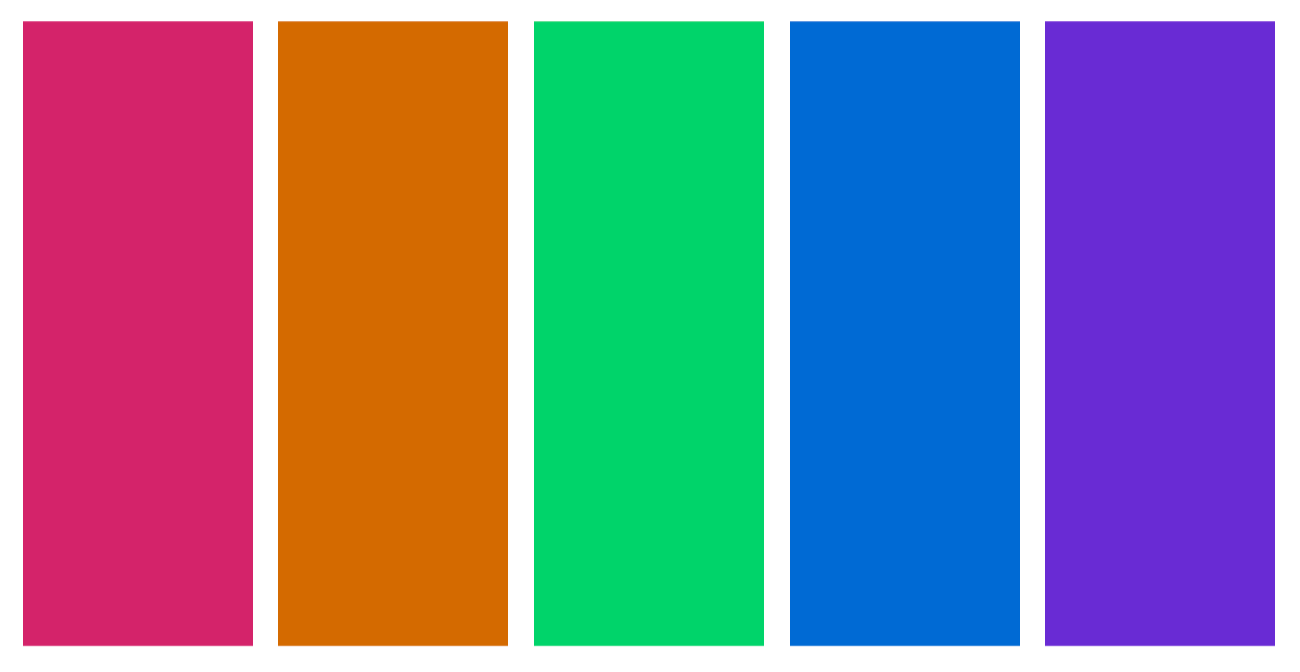
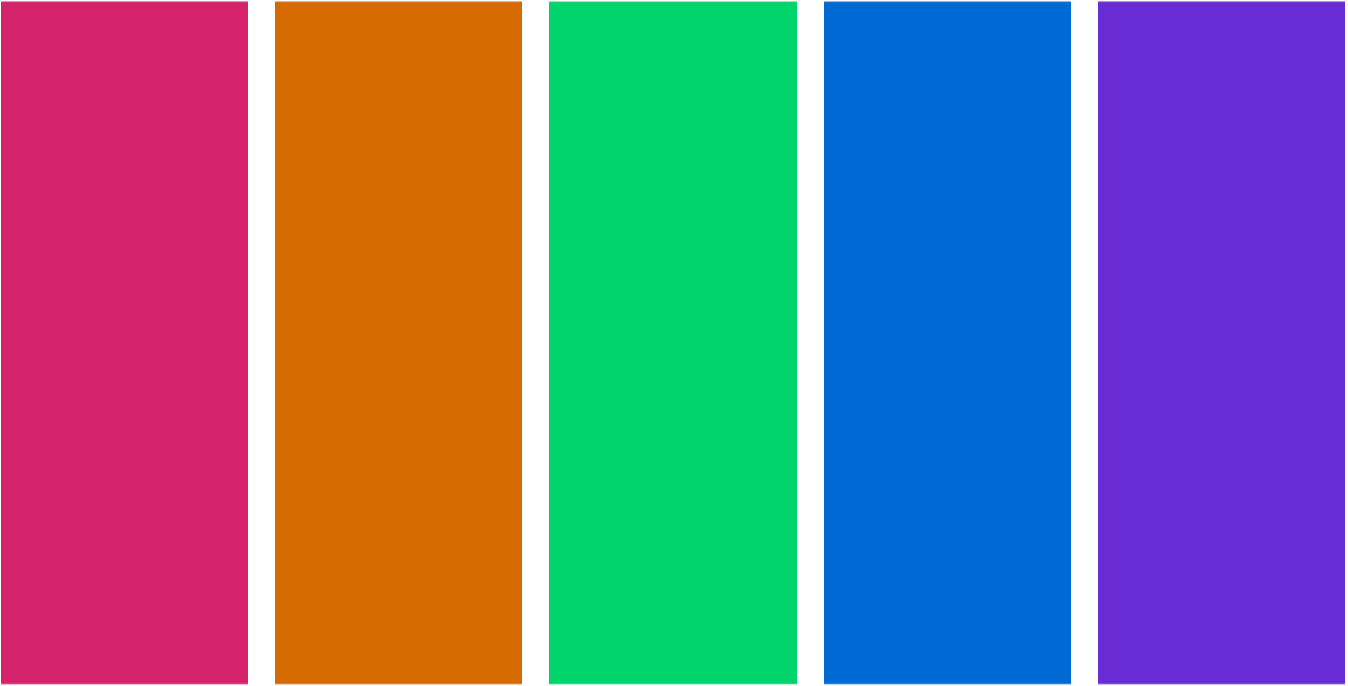
finish accessibility section

Changed region(s): [[0.0, 0.0, 1.0, 1.0]]

diff --git a/_posts/2021-05-15-custom-syntax-highlighting-for-distill/custom-syntax-highlighting-for-distill.html b/_posts/2021-05-15-custom-syntax-highlighting-for-distill/custom-syntax-highlighting-for-distill.html
@@ -124,7 +124,7 @@ code span.wa { color: #5e5e5e; font-style: italic; } /* Warning */
   <!--/radix_placeholder_rmarkdown_metadata-->
   
   <script type="text/json" id="radix-resource-manifest">
-  {"type":"character","attributes":{},"value":["colour-harmonies.jpg","colour-palettes-d4006a.png","contrast-check.png","custom-syntax-highlighting-for-distill_files/anchor-4.2.2/anchor.min.js","custom-syntax-highlighting-for-distill_files/bowser-1.9.3/bowser.min.js","custom-syntax-highlighting-for-distill_files/distill-2.2.21/template.v2.js","custom-syntax-highlighting-for-distill_files/figure-html5/colour-theory-palette-1.png","custom-syntax-highlighting-for-distill_files/figure-html5/unnamed-chunk-10-1.png","custom-syntax-highlighting-for-distill_files/figure-html5/unnamed-chunk-11-1.png","custom-syntax-highlighting-for-distill_files/figure-html5/unnamed-chunk-2-1.png","custom-syntax-highlighting-for-distill_files/figure-html5/unnamed-chunk-3-1.png","custom-syntax-highlighting-for-distill_files/figure-html5/unnamed-chunk-4-1.png","custom-syntax-highlighting-for-distill_files/figure-html5/unnamed-chunk-5-1.png","custom-syntax-highlighting-for-distill_files/figure-html5/unnamed-chunk-5-2.png","custom-syntax-highlighting-for-distill_files/figure-html5/unnamed-chunk-6-1.png","custom-syntax-highlighting-for-distill_files/figure-html5/unnamed-chunk-7-1.png","custom-syntax-highlighting-for-distill_files/figure-html5/unnamed-chunk-8-1.png","custom-syntax-highlighting-for-distill_files/figure-html5/unnamed-chunk-9-1.png","custom-syntax-highlighting-for-distill_files/header-attrs-2.8/header-attrs.js","custom-syntax-highlighting-for-distill_files/jquery-1.11.3/jquery.min.js","custom-syntax-highlighting-for-distill_files/popper-2.6.0/popper.min.js","custom-syntax-highlighting-for-distill_files/tippy-6.2.7/tippy-bundle.umd.min.js","custom-syntax-highlighting-for-distill_files/tippy-6.2.7/tippy-light-border.css","custom-syntax-highlighting-for-distill_files/tippy-6.2.7/tippy.css","custom-syntax-highlighting-for-distill_files/tippy-6.2.7/tippy.umd.min.js","custom-syntax-highlighting-for-distill_files/webcomponents-2.0.0/webcomponents.js","first-colour-swatch.png","hsl-colour-wheel-d4006a-annotated.png","hsl-colour-wheel-d4006a.png","hsl-hsb-sliders.png"]}
+  {"type":"character","attributes":{},"value":["colour-harmonies.jpg","colour-palettes-d4006a.png","contrast-check.png","custom-syntax-highlighting-for-distill_files/anchor-4.2.2/anchor.min.js","custom-syntax-highlighting-for-distill_files/bowser-1.9.3/bowser.min.js","custom-syntax-highlighting-for-distill_files/distill-2.2.21/template.v2.js","custom-syntax-highlighting-for-distill_files/figure-html5/colour-theory-palette-1.png","custom-syntax-highlighting-for-distill_files/figure-html5/unnamed-chunk-10-1.png","custom-syntax-highlighting-for-distill_files/figure-html5/unnamed-chunk-11-1.png","custom-syntax-highlighting-for-distill_files/figure-html5/unnamed-chunk-2-1.png","custom-syntax-highlighting-for-distill_files/figure-html5/unnamed-chunk-3-1.png","custom-syntax-highlighting-for-distill_files/figure-html5/unnamed-chunk-4-1.png","custom-syntax-highlighting-for-distill_files/figure-html5/unnamed-chunk-5-1.png","custom-syntax-highlighting-for-distill_files/figure-html5/unnamed-chunk-5-2.png","custom-syntax-highlighting-for-distill_files/figure-html5/unnamed-chunk-6-1.png","custom-syntax-highlighting-for-distill_files/figure-html5/unnamed-chunk-7-1.png","custom-syntax-highlighting-for-distill_files/figure-html5/unnamed-chunk-8-1.png","custom-syntax-highlighting-for-distill_files/figure-html5/unnamed-chunk-9-1.png","custom-syntax-highlighting-for-distill_files/header-attrs-2.8/header-attrs.js","custom-syntax-highlighting-for-distill_files/jquery-1.11.3/jquery.min.js","custom-syntax-highlighting-for-distill_files/popper-2.6.0/popper.min.js","custom-syntax-highlighting-for-distill_files/tippy-6.2.7/tippy-bundle.umd.min.js","custom-syntax-highlighting-for-distill_files/tippy-6.2.7/tippy-light-border.css","custom-syntax-highlighting-for-distill_files/tippy-6.2.7/tippy.css","custom-syntax-highlighting-for-distill_files/tippy-6.2.7/tippy.umd.min.js","custom-syntax-highlighting-for-distill_files/webcomponents-2.0.0/webcomponents.js","ek-syntax-highlighting-palette.png","first-colour-swatch.png","hsl-colour-wheel-d4006a-annotated.png","hsl-colour-wheel-d4006a.png","hsl-hsb-sliders.png","second-colour-swatch.png","third-colour-swatch.png"]}
   </script>
   <!--radix_placeholder_navigation_in_header-->
   <!--/radix_placeholder_navigation_in_header-->
@@ -1646,7 +1646,7 @@ Figure 2: Harmonious colour combinations. Figure from <a href="https://www.widew
 </div>
 </div>
 <p>Another aspect of colour theory relates to colour spaces, and different ways that colours can be defined. The best known, at least in the context of designing for the web, is RGB (<strong>R</strong>eg <strong>G</strong>reen <strong>B</strong>lue), which defines a colour by how much of each of those three primary colours it contains, in a range of 0-255. It is the hexidecimal representations of these three numbers that combine to make up the hex code for a colour.</p>
-<p>More intuitive, however, for adjusting colours, is defining them by SB (<strong>H</strong>ue, <strong>S</strong>aturation, <strong>B</strong>rightness), also known as HSV (<strong>H</strong>ue, <strong>S</strong>aturation, <strong>V</strong>alue). Similar to HSB is HSL (<strong>H</strong>ue, <strong>S</strong>aturation, <strong>L</strong>ightness/<strong>L</strong>uminance/<strong>L</strong>uminosity).</p>
+<p>More intuitive, however, for adjusting colours, is defining them by SB (<strong>H</strong>ue, <strong>S</strong>aturation, <strong>B</strong>rightness), also known as HSV (<strong>H</strong>ue, <strong>S</strong>aturation, <strong>V</strong>alue). Similar to HSB is HSL (<strong>H</strong>ue, <strong>S</strong>aturation, <strong>L</strong>ightness).</p>
 <p>In HSB, the hue represents the colour type and is a number measured between 0 and 360°; it’s where you are on the colour wheel, ignoring how bright or intense the colour is. Saturation describes the intensity or richness of the hue, measured between 0 and 100%. 100% is the richest version of the colour and 0% is a shade of grey. Brightness measures, you guessed it, the brightness of the colour. Again, it ranges from 0 to 100%, with 0% being black and 100% being a very bright colour (here, black is not the opposite of white). Here’s a <a href="https://learnui.design/blog/the-hsb-color-system-practicioners-primer.html">excellent article on the HSB system</a>, which also explains how it differs from HSL. And since a picture here is worth very many words, see Figure <a href="#fig:hsl-hsb-sliders">3</a> for HSL and HSB sliders for my pink.</p>
 <div class="layout-chunk" data-layout="l-body">
 <div class="figure"><span id="fig:hsl-hsb-sliders"></span>
@@ -1661,26 +1661,58 @@ Figure 3: HSL and HSB sliders for the pink used throughout this site. Image is a
 <p>It’s great to play around with an HSL or HSB colour wheel to get a sense of how harmonious colour schemes are built, and how the colours in them relate to each other on the wheel. I really like the <a href="https://www.canva.com/colors/color-wheel/">canva colour wheel</a>. It’s pretty simple, with only a few schemes, but it’s nicely designed and easy to use, and the page explains the basics of colour theory too. I like how you can pull the dots around the wheel and see how the colours relate, and if you click on a colour in the palette, there are HSL sliders too. Plus, as you move colours around, the background of the page changes colour, which is a nice touch!</p>
 <p>The problem with all the colour schemes defined in Figure <a href="#fig:colour-harmonies">2</a> is that they use a maximum of four colours, and we need five. But not to worry! We know from colour theory that we can find 12 colours in harmony by taking evenly spaced colours around the HSL or HSB wheel, i.e. colours whose hues are 30° apart, given fixed values for saturation and brightness/lightness. Since we only need five colours, it’s sufficient to find the six colours that are 60° apart, and ignore one of them. Note that for five colours to appear harmonious, we have to respect these angles, not choose five colours that are 72° apart.</p>
 <p>The main pink that I use in this site has hex <span style="background-color: #D4006A; color: white; padding:3px">#D4006A</span>. In ColorSlurp, I started a new palette with that as a starting point, then switched to the HSB sliders, and found its HSB values are 330°, 100%, 83%. Leaving the S and B sliders where they are, the next colour I need is 60° around the circle, i.e. at 30°, so I moved the H slider to that value and added the resulting orange to the palette. I then repeated for 90°, 150°, 210° and 270°, giving me two shades of green, a blue and a purple. As I only need five colours, I discarded one of the greens, keeping the one at 150°, which is complementary to my main pink. If you don’t use ColorSlurp or a similar app, there are many online options for building a palette in this way, for example <a href="http://colorizer.org">http://colorizer.org</a> (add a new color to the palette by clicking on the next square down to the right of the sliders). In both ColorSlurp and on colorizer.org, once you have defined a colour by its HSB values, you can read off the hex code.</p>
-<p>At the end of this stage of the process, based purely on colour theory, my syntax highlighting colour scheme now stood as in Figure <a href="#fig:colour-theory-palette">4</a>.</p>
+<p>At the end of this stage of the process, based purely on colour theory, my syntax highlighting colour scheme now stood as in Figure <a href="#fig:colour-theory-palette">4</a>. In the HSB space, these colours all have a saturation of 100% and a brightness of 83%.</p>
 <div class="layout-chunk" data-layout="l-body">
 <div class="figure"><span id="fig:colour-theory-palette"></span>
-<img src="first-colour-swatch.png" alt="Colours for syntax highlighting, starting from my main pink, based only on colour theory" width="650" />
+<img src="first-colour-swatch.png" alt="Colours for syntax highlighting, starting from my main pink, based only on colour theory" width="674" />
 <p class="caption">
 Figure 4: Colours for syntax highlighting, starting from my main pink, based only on colour theory
 </p>
 </div>
 </div>
 <h3 id="adapting-for-web-accessibility">Adapting for web accessibility</h3>
-<p>As noted at the beginning of this post, one key feature of the default syntax highlighting scheme for {distill} is that it is optimised for accessibility and colour contrast. According to the <a href="https://www.w3.org/WAI/standards-guidelines/wcag/">Web Content Accessibility Guidelines</a>, this requires that that contrast ratio between text and background colours be at least 4.5:1 for text of 14pt+ (which is the default text size for code in {distill}).</p>
-<ul>
-<li><p><a href="https://www.w3.org/WAI/standards-guidelines/wcag/" class="uri">https://www.w3.org/WAI/standards-guidelines/wcag/</a></p></li>
-<li><p><a href="https://webaim.org/resources/contrastchecker/" class="uri">https://webaim.org/resources/contrastchecker/</a></p></li>
-<li><p><a href="https://coolors.co/contrast-checker/112a46-acc8e5" class="uri">https://coolors.co/contrast-checker/112a46-acc8e5</a></p></li>
-<li><p><a href="https://www.a11yproject.com" class="uri">https://www.a11yproject.com</a></p></li>
-<li><p>Silvia Canelón</p></li>
-<li><p>Keep hue and saturation, decrease brightness</p></li>
-<li><p>{coloratio} and {salonliquide}</p></li>
-</ul>
+<p>As noted at the beginning of this post, one key feature of the default syntax highlighting scheme for {distill} is that it is optimised for accessibility and colour contrast. According to the <a href="https://www.w3.org/WAI/standards-guidelines/wcag/">Web Content Accessibility Guidelines</a>, at the WCAG AA (minimum contrast) level, this requires that that contrast ratio between text and background colours be at least 4.5:1 for text of 14pt+ (which is the default text size for code in {distill}). The more stringent WCAG AAA (enhanced) level requires a ratio of at least 7:1.</p>
+<p>The pro version of ColorSlurp includes a contrast checker, as in Figure <a href="#fig:colorslurp-contrast">5</a>, though there are many websites that also offer this. The WebAIM (Web with Accessibility in Mind), has a very handy <a href="https://webaim.org/resources/contrastchecker/">contrast checker</a> which, like ColorSlurp, also includes lightness sliders for adjusting the colours until the desired contrast is reached. Darkening a colour to improve contrast keeps the hue and saturation the same but reduces the brightness or lightness component (ColorSlurp uses HSB, WebAIM uses HCL).</p>
+<div class="layout-chunk" data-layout="l-body">
+<div class="figure"><span id="fig:colorslurp-contrast"></span>
+<img src="contrast-check.png" alt="Contrast checking in ColorSlurp" width="598" />
+<p class="caption">
+Figure 5: Contrast checking in ColorSlurp
+</p>
+</div>
+</div>
+<p>The <span style="background-color: #D4006A; color: white; padding:3px">pink</span>, <span style="background-color: #006AD4; color: white; padding:3px">blue</span> and <span style="background-color: #6A00D4; color: white; padding:3px">purple</span> in the palette created above have a contrast ratio of better than 4.5:1 with the pure whilte background, but the <span style="background-color: #D46A00; color: white; padding:3px">orange</span> and <span style="background-color: #00D46A; color: white; padding:3px">green</span> do not.</p>
+<p>My first thought was to keep the pink, blue and purple the same, and to just adjust the orange and green to the necessary point. In the HSB space, that gives the palette in Figure <a href="#fig:orange-green-less-bright">6</a>.</p>
+<div class="layout-chunk" data-layout="l-body">
+<div class="figure"><span id="fig:orange-green-less-bright"></span>
+<img src="second-colour-swatch.png" alt="Reducing brightness in just the orange and green to achieve desired contrasts." width="673" />
+<p class="caption">
+Figure 6: Reducing brightness in just the orange and green to achieve desired contrasts.
+</p>
+</div>
+</div>
+<p>It’s not bad, but when I applied that palette as a syntax highlighting scheme, to my eye the pink, blue and purple looked a little too bright relative to the orange.</p>
+<p>My next thought was to darken all the colours to all share the brighness level of the least bright colour that passes the accessibility check (the green, at 53%). That gives the palette in Figure <a href="#fig:all-less-bright">7</a>.</p>
+<div class="layout-chunk" data-layout="l-body">
+<div class="figure"><span id="fig:all-less-bright"></span>
+<img src="third-colour-swatch.png" alt="Reducing brightness in all colours to the level of the green." width="674" />
+<p class="caption">
+Figure 7: Reducing brightness in all colours to the level of the green.
+</p>
+</div>
+</div>
+<p>I don’t like that at all! It’s not vibrant enough, and, although the colours all have good contrast against the white background, they don’t have much contrast with each other.</p>
+<p>So, I settled on a compromise position. I reduced the brightness of the original pink, blue and purple to match the brightness of the accessibility-passing orange (71%), leaving only the green at a brightness of 53%, which it needs to pass the contrast check. That gives the palette in Figure <a href="#fig:final-palette">8</a>.</p>
+<div class="layout-chunk" data-layout="l-body">
+<div class="figure"><span id="fig:final-palette"></span>
+<img src="ek-syntax-highlighting-palette.png" alt="The palette I settled on for my syntax highlighting scheme." width="674" />
+<p class="caption">
+Figure 8: The palette I settled on for my syntax highlighting scheme.
+</p>
+</div>
+</div>
+<p>I’m happy with that, and that’s the syntax highlighting scheme I’ve adopted throughout this site, despite the fact that the palette now doesn’t actually include the pink that I set out to build my scheme around! However, because of the process I’ve followed, the pink that is in the palette does tones well with the brighter pink and I think my site still has a consistent look. In the end, it was more important that all the colours in the palette looked consistent together and met accessibility guidelines.</p>
+<p>I am only just beginning to learn about web accessibility, and I know my site does not yet meet all best practices, but I’m committed to improving in this area. I first became aware of the issue of web accessibility because I follow <a href="https://twitter.com/spcanelon">Silvia Canelón on twitter</a> and I highly recommend you do the same! The <a href="https://www.a11yproject.com">a11y project</a> and <a href="https://webaim.org">WebAIM</a> are also great places to get started.</p>
 <h3 id="checking-for-colourblindness">Checking for colourblindness</h3>
 <ul>
 <li><a href="https://njt-monash-colour.netlify.app/#1" class="uri">https://njt-monash-colour.netlify.app/#1</a></li>

diff --git a/_site/posts/2021-05-15-custom-syntax-highlighting-for-distill/index.html b/_site/posts/2021-05-15-custom-syntax-highlighting-for-distill/index.html
@@ -137,7 +137,7 @@ code span.wa { color: #5e5e5e; font-style: italic; } /* Warning */
 <!--/radix_placeholder_rmarkdown_metadata-->
   
   <script type="text/json" id="radix-resource-manifest">
-  {"type":"character","attributes":{},"value":["colour-harmonies.jpg","colour-palettes-d4006a.png","contrast-check.png","custom-syntax-highlighting-for-distill_files/anchor-4.2.2/anchor.min.js","custom-syntax-highlighting-for-distill_files/bowser-1.9.3/bowser.min.js","custom-syntax-highlighting-for-distill_files/distill-2.2.21/template.v2.js","custom-syntax-highlighting-for-distill_files/figure-html5/colour-theory-palette-1.png","custom-syntax-highlighting-for-distill_files/figure-html5/unnamed-chunk-10-1.png","custom-syntax-highlighting-for-distill_files/figure-html5/unnamed-chunk-11-1.png","custom-syntax-highlighting-for-distill_files/figure-html5/unnamed-chunk-2-1.png","custom-syntax-highlighting-for-distill_files/figure-html5/unnamed-chunk-3-1.png","custom-syntax-highlighting-for-distill_files/figure-html5/unnamed-chunk-4-1.png","custom-syntax-highlighting-for-distill_files/figure-html5/unnamed-chunk-5-1.png","custom-syntax-highlighting-for-distill_files/figure-html5/unnamed-chunk-5-2.png","custom-syntax-highlighting-for-distill_files/figure-html5/unnamed-chunk-6-1.png","custom-syntax-highlighting-for-distill_files/figure-html5/unnamed-chunk-7-1.png","custom-syntax-highlighting-for-distill_files/figure-html5/unnamed-chunk-8-1.png","custom-syntax-highlighting-for-distill_files/figure-html5/unnamed-chunk-9-1.png","custom-syntax-highlighting-for-distill_files/header-attrs-2.8/header-attrs.js","custom-syntax-highlighting-for-distill_files/jquery-1.11.3/jquery.min.js","custom-syntax-highlighting-for-distill_files/popper-2.6.0/popper.min.js","custom-syntax-highlighting-for-distill_files/tippy-6.2.7/tippy-bundle.umd.min.js","custom-syntax-highlighting-for-distill_files/tippy-6.2.7/tippy-light-border.css","custom-syntax-highlighting-for-distill_files/tippy-6.2.7/tippy.css","custom-syntax-highlighting-for-distill_files/tippy-6.2.7/tippy.umd.min.js","custom-syntax-highlighting-for-distill_files/webcomponents-2.0.0/webcomponents.js","first-colour-swatch.png","hsl-colour-wheel-d4006a-annotated.png","hsl-colour-wheel-d4006a.png","hsl-hsb-sliders.png"]}
+  {"type":"character","attributes":{},"value":["colour-harmonies.jpg","colour-palettes-d4006a.png","contrast-check.png","custom-syntax-highlighting-for-distill_files/anchor-4.2.2/anchor.min.js","custom-syntax-highlighting-for-distill_files/bowser-1.9.3/bowser.min.js","custom-syntax-highlighting-for-distill_files/distill-2.2.21/template.v2.js","custom-syntax-highlighting-for-distill_files/figure-html5/colour-theory-palette-1.png","custom-syntax-highlighting-for-distill_files/figure-html5/unnamed-chunk-10-1.png","custom-syntax-highlighting-for-distill_files/figure-html5/unnamed-chunk-11-1.png","custom-syntax-highlighting-for-distill_files/figure-html5/unnamed-chunk-2-1.png","custom-syntax-highlighting-for-distill_files/figure-html5/unnamed-chunk-3-1.png","custom-syntax-highlighting-for-distill_files/figure-html5/unnamed-chunk-4-1.png","custom-syntax-highlighting-for-distill_files/figure-html5/unnamed-chunk-5-1.png","custom-syntax-highlighting-for-distill_files/figure-html5/unnamed-chunk-5-2.png","custom-syntax-highlighting-for-distill_files/figure-html5/unnamed-chunk-6-1.png","custom-syntax-highlighting-for-distill_files/figure-html5/unnamed-chunk-7-1.png","custom-syntax-highlighting-for-distill_files/figure-html5/unnamed-chunk-8-1.png","custom-syntax-highlighting-for-distill_files/figure-html5/unnamed-chunk-9-1.png","custom-syntax-highlighting-for-distill_files/header-attrs-2.8/header-attrs.js","custom-syntax-highlighting-for-distill_files/jquery-1.11.3/jquery.min.js","custom-syntax-highlighting-for-distill_files/popper-2.6.0/popper.min.js","custom-syntax-highlighting-for-distill_files/tippy-6.2.7/tippy-bundle.umd.min.js","custom-syntax-highlighting-for-distill_files/tippy-6.2.7/tippy-light-border.css","custom-syntax-highlighting-for-distill_files/tippy-6.2.7/tippy.css","custom-syntax-highlighting-for-distill_files/tippy-6.2.7/tippy.umd.min.js","custom-syntax-highlighting-for-distill_files/webcomponents-2.0.0/webcomponents.js","ek-syntax-highlighting-palette.png","first-colour-swatch.png","hsl-colour-wheel-d4006a-annotated.png","hsl-colour-wheel-d4006a.png","hsl-hsb-sliders.png","second-colour-swatch.png","third-colour-swatch.png"]}
   </script>
   <!--radix_placeholder_navigation_in_header-->
 <meta name="distill:offset" content="../.."/>
@@ -2577,7 +2577,7 @@ Figure 2: Harmonious colour combinations. Figure from <a href="https://www.widew
 </div>
 </div>
 <p>Another aspect of colour theory relates to colour spaces, and different ways that colours can be defined. The best known, at least in the context of designing for the web, is RGB (<strong>R</strong>eg <strong>G</strong>reen <strong>B</strong>lue), which defines a colour by how much of each of those three primary colours it contains, in a range of 0-255. It is the hexidecimal representations of these three numbers that combine to make up the hex code for a colour.</p>
-<p>More intuitive, however, for adjusting colours, is defining them by SB (<strong>H</strong>ue, <strong>S</strong>aturation, <strong>B</strong>rightness), also known as HSV (<strong>H</strong>ue, <strong>S</strong>aturation, <strong>V</strong>alue). Similar to HSB is HSL (<strong>H</strong>ue, <strong>S</strong>aturation, <strong>L</strong>ightness/<strong>L</strong>uminance/<strong>L</strong>uminosity).</p>
+<p>More intuitive, however, for adjusting colours, is defining them by SB (<strong>H</strong>ue, <strong>S</strong>aturation, <strong>B</strong>rightness), also known as HSV (<strong>H</strong>ue, <strong>S</strong>aturation, <strong>V</strong>alue). Similar to HSB is HSL (<strong>H</strong>ue, <strong>S</strong>aturation, <strong>L</strong>ightness).</p>
 <p>In HSB, the hue represents the colour type and is a number measured between 0 and 360°; it’s where you are on the colour wheel, ignoring how bright or intense the colour is. Saturation describes the intensity or richness of the hue, measured between 0 and 100%. 100% is the richest version of the colour and 0% is a shade of grey. Brightness measures, you guessed it, the brightness of the colour. Again, it ranges from 0 to 100%, with 0% being black and 100% being a very bright colour (here, black is not the opposite of white). Here’s a <a href="https://learnui.design/blog/the-hsb-color-system-practicioners-primer.html">excellent article on the HSB system</a>, which also explains how it differs from HSL. And since a picture here is worth very many words, see Figure <a href="#fig:hsl-hsb-sliders">3</a> for HSL and HSB sliders for my pink.</p>
 <div class="layout-chunk" data-layout="l-body">
 <div class="figure"><span id="fig:hsl-hsb-sliders"></span>
@@ -2592,26 +2592,58 @@ Figure 3: HSL and HSB sliders for the pink used throughout this site. Image is a
 <p>It’s great to play around with an HSL or HSB colour wheel to get a sense of how harmonious colour schemes are built, and how the colours in them relate to each other on the wheel. I really like the <a href="https://www.canva.com/colors/color-wheel/">canva colour wheel</a>. It’s pretty simple, with only a few schemes, but it’s nicely designed and easy to use, and the page explains the basics of colour theory too. I like how you can pull the dots around the wheel and see how the colours relate, and if you click on a colour in the palette, there are HSL sliders too. Plus, as you move colours around, the background of the page changes colour, which is a nice touch!</p>
 <p>The problem with all the colour schemes defined in Figure <a href="#fig:colour-harmonies">2</a> is that they use a maximum of four colours, and we need five. But not to worry! We know from colour theory that we can find 12 colours in harmony by taking evenly spaced colours around the HSL or HSB wheel, i.e. colours whose hues are 30° apart, given fixed values for saturation and brightness/lightness. Since we only need five colours, it’s sufficient to find the six colours that are 60° apart, and ignore one of them. Note that for five colours to appear harmonious, we have to respect these angles, not choose five colours that are 72° apart.</p>
 <p>The main pink that I use in this site has hex <span style="background-color: #D4006A; color: white; padding:3px">#D4006A</span>. In ColorSlurp, I started a new palette with that as a starting point, then switched to the HSB sliders, and found its HSB values are 330°, 100%, 83%. Leaving the S and B sliders where they are, the next colour I need is 60° around the circle, i.e. at 30°, so I moved the H slider to that value and added the resulting orange to the palette. I then repeated for 90°, 150°, 210° and 270°, giving me two shades of green, a blue and a purple. As I only need five colours, I discarded one of the greens, keeping the one at 150°, which is complementary to my main pink. If you don’t use ColorSlurp or a similar app, there are many online options for building a palette in this way, for example <a href="http://colorizer.org">http://colorizer.org</a> (add a new color to the palette by clicking on the next square down to the right of the sliders). In both ColorSlurp and on colorizer.org, once you have defined a colour by its HSB values, you can read off the hex code.</p>
-<p>At the end of this stage of the process, based purely on colour theory, my syntax highlighting colour scheme now stood as in Figure <a href="#fig:colour-theory-palette">4</a>.</p>
+<p>At the end of this stage of the process, based purely on colour theory, my syntax highlighting colour scheme now stood as in Figure <a href="#fig:colour-theory-palette">4</a>. In the HSB space, these colours all have a saturation of 100% and a brightness of 83%.</p>
 <div class="layout-chunk" data-layout="l-body">
 <div class="figure"><span id="fig:colour-theory-palette"></span>
-<img src="first-colour-swatch.png" alt="Colours for syntax highlighting, starting from my main pink, based only on colour theory" width="650" />
+<img src="first-colour-swatch.png" alt="Colours for syntax highlighting, starting from my main pink, based only on colour theory" width="674" />
 <p class="caption">
 Figure 4: Colours for syntax highlighting, starting from my main pink, based only on colour theory
 </p>
 </div>
 </div>
 <h3 id="adapting-for-web-accessibility">Adapting for web accessibility</h3>
-<p>As noted at the beginning of this post, one key feature of the default syntax highlighting scheme for {distill} is that it is optimised for accessibility and colour contrast. According to the <a href="https://www.w3.org/WAI/standards-guidelines/wcag/">Web Content Accessibility Guidelines</a>, this requires that that contrast ratio between text and background colours be at least 4.5:1 for text of 14pt+ (which is the default text size for code in {distill}).</p>
-<ul>
-<li><p><a href="https://www.w3.org/WAI/standards-guidelines/wcag/" class="uri">https://www.w3.org/WAI/standards-guidelines/wcag/</a></p></li>
-<li><p><a href="https://webaim.org/resources/contrastchecker/" class="uri">https://webaim.org/resources/contrastchecker/</a></p></li>
-<li><p><a href="https://coolors.co/contrast-checker/112a46-acc8e5" class="uri">https://coolors.co/contrast-checker/112a46-acc8e5</a></p></li>
-<li><p><a href="https://www.a11yproject.com" class="uri">https://www.a11yproject.com</a></p></li>
-<li><p>Silvia Canelón</p></li>
-<li><p>Keep hue and saturation, decrease brightness</p></li>
-<li><p>{coloratio} and {salonliquide}</p></li>
-</ul>
+<p>As noted at the beginning of this post, one key feature of the default syntax highlighting scheme for {distill} is that it is optimised for accessibility and colour contrast. According to the <a href="https://www.w3.org/WAI/standards-guidelines/wcag/">Web Content Accessibility Guidelines</a>, at the WCAG AA (minimum contrast) level, this requires that that contrast ratio between text and background colours be at least 4.5:1 for text of 14pt+ (which is the default text size for code in {distill}). The more stringent WCAG AAA (enhanced) level requires a ratio of at least 7:1.</p>
+<p>The pro version of ColorSlurp includes a contrast checker, as in Figure <a href="#fig:colorslurp-contrast">5</a>, though there are many websites that also offer this. The WebAIM (Web with Accessibility in Mind), has a very handy <a href="https://webaim.org/resources/contrastchecker/">contrast checker</a> which, like ColorSlurp, also includes lightness sliders for adjusting the colours until the desired contrast is reached. Darkening a colour to improve contrast keeps the hue and saturation the same but reduces the brightness or lightness component (ColorSlurp uses HSB, WebAIM uses HCL).</p>
+<div class="layout-chunk" data-layout="l-body">
+<div class="figure"><span id="fig:colorslurp-contrast"></span>
+<img src="contrast-check.png" alt="Contrast checking in ColorSlurp" width="598" />
+<p class="caption">
+Figure 5: Contrast checking in ColorSlurp
+</p>
+</div>
+</div>
+<p>The <span style="background-color: #D4006A; color: white; padding:3px">pink</span>, <span style="background-color: #006AD4; color: white; padding:3px">blue</span> and <span style="background-color: #6A00D4; color: white; padding:3px">purple</span> in the palette created above have a contrast ratio of better than 4.5:1 with the pure whilte background, but the <span style="background-color: #D46A00; color: white; padding:3px">orange</span> and <span style="background-color: #00D46A; color: white; padding:3px">green</span> do not.</p>
+<p>My first thought was to keep the pink, blue and purple the same, and to just adjust the orange and green to the necessary point. In the HSB space, that gives the palette in Figure <a href="#fig:orange-green-less-bright">6</a>.</p>
+<div class="layout-chunk" data-layout="l-body">
+<div class="figure"><span id="fig:orange-green-less-bright"></span>
+<img src="second-colour-swatch.png" alt="Reducing brightness in just the orange and green to achieve desired contrasts." width="673" />
+<p class="caption">
+Figure 6: Reducing brightness in just the orange and green to achieve desired contrasts.
+</p>
+</div>
+</div>
+<p>It’s not bad, but when I applied that palette as a syntax highlighting scheme, to my eye the pink, blue and purple looked a little too bright relative to the orange.</p>
+<p>My next thought was to darken all the colours to all share the brighness level of the least bright colour that passes the accessibility check (the green, at 53%). That gives the palette in Figure <a href="#fig:all-less-bright">7</a>.</p>
+<div class="layout-chunk" data-layout="l-body">
+<div class="figure"><span id="fig:all-less-bright"></span>
+<img src="third-colour-swatch.png" alt="Reducing brightness in all colours to the level of the green." width="674" />
+<p class="caption">
+Figure 7: Reducing brightness in all colours to the level of the green.
+</p>
+</div>
+</div>
+<p>I don’t like that at all! It’s not vibrant enough, and, although the colours all have good contrast against the white background, they don’t have much contrast with each other.</p>
+<p>So, I settled on a compromise position. I reduced the brightness of the original pink, blue and purple to match the brightness of the accessibility-passing orange (71%), leaving only the green at a brightness of 53%, which it needs to pass the contrast check. That gives the palette in Figure <a href="#fig:final-palette">8</a>.</p>
+<div class="layout-chunk" data-layout="l-body">
+<div class="figure"><span id="fig:final-palette"></span>
+<img src="ek-syntax-highlighting-palette.png" alt="The palette I settled on for my syntax highlighting scheme." width="674" />
+<p class="caption">
+Figure 8: The palette I settled on for my syntax highlighting scheme.
+</p>
+</div>
+</div>
+<p>I’m happy with that, and that’s the syntax highlighting scheme I’ve adopted throughout this site, despite the fact that the palette now doesn’t actually include the pink that I set out to build my scheme around! However, because of the process I’ve followed, the pink that is in the palette does tones well with the brighter pink and I think my site still has a consistent look. In the end, it was more important that all the colours in the palette looked consistent together and met accessibility guidelines.</p>
+<p>I am only just beginning to learn about web accessibility, and I know my site does not yet meet all best practices, but I’m committed to improving in this area. I first became aware of the issue of web accessibility because I follow <a href="https://twitter.com/spcanelon">Silvia Canelón on twitter</a> and I highly recommend you do the same! The <a href="https://www.a11yproject.com">a11y project</a> and <a href="https://webaim.org">WebAIM</a> are also great places to get started.</p>
 <h3 id="checking-for-colourblindness">Checking for colourblindness</h3>
 <ul>
 <li><a href="https://njt-monash-colour.netlify.app/#1" class="uri">https://njt-monash-colour.netlify.app/#1</a></li>
